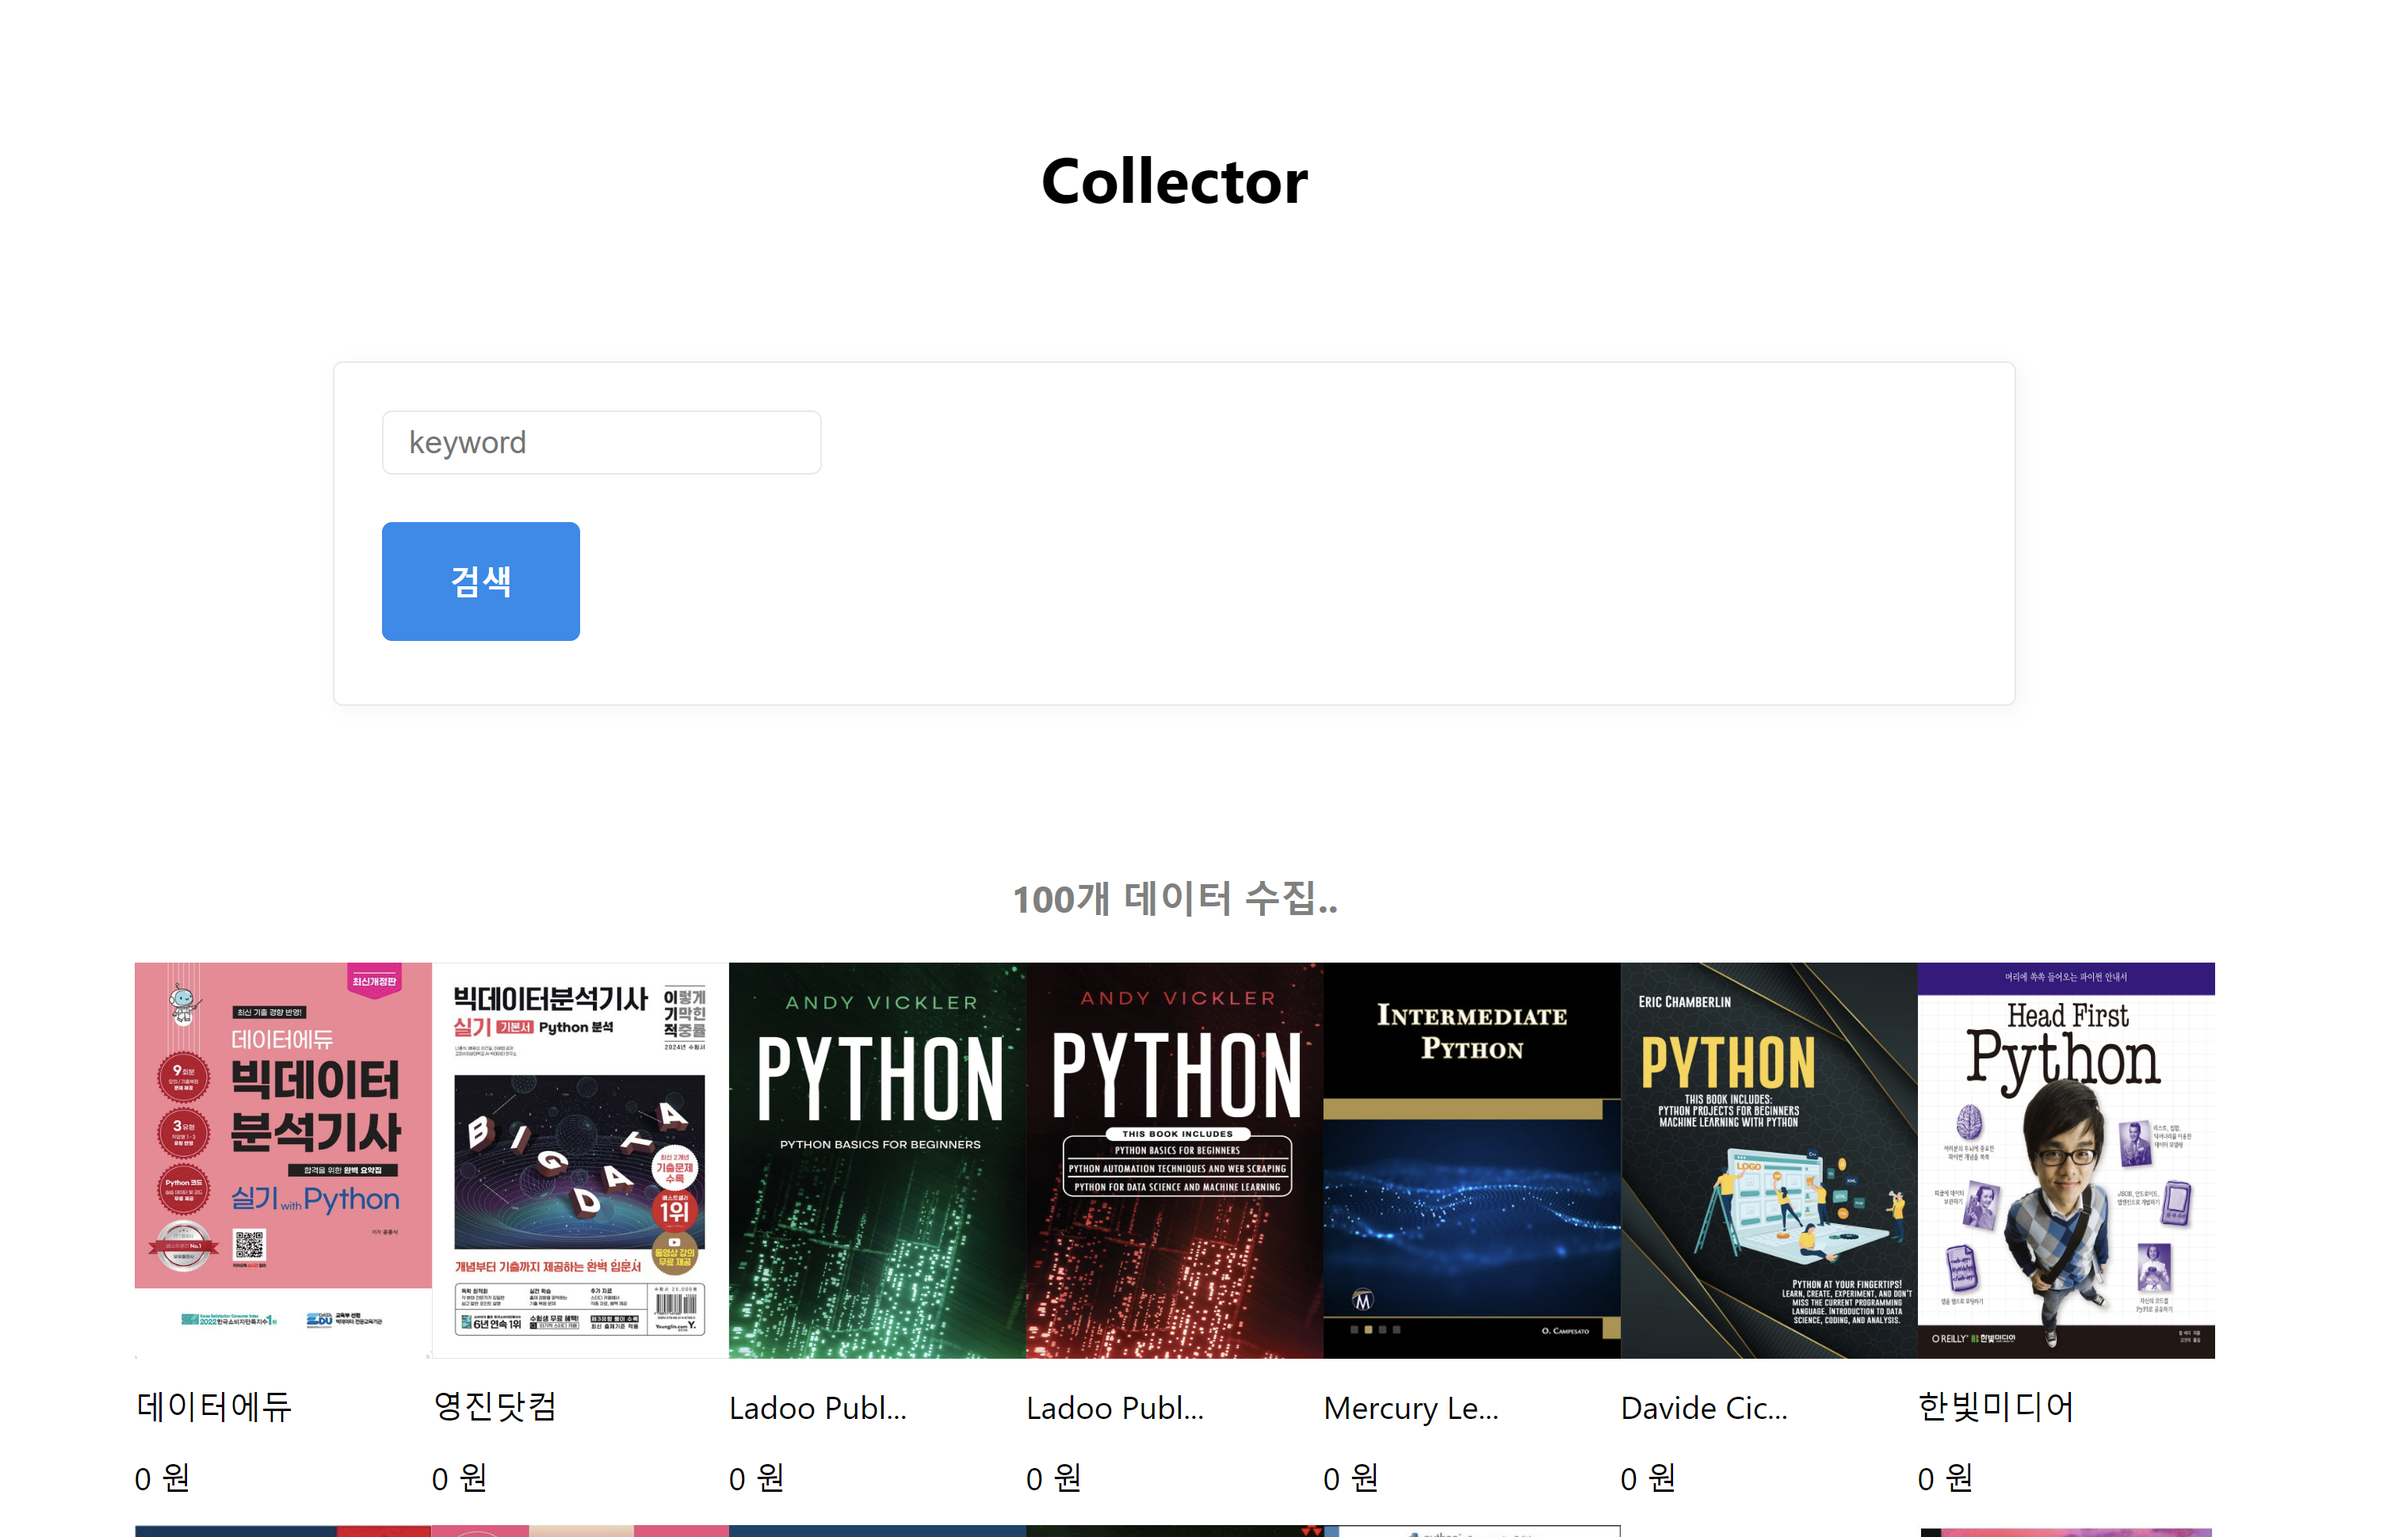
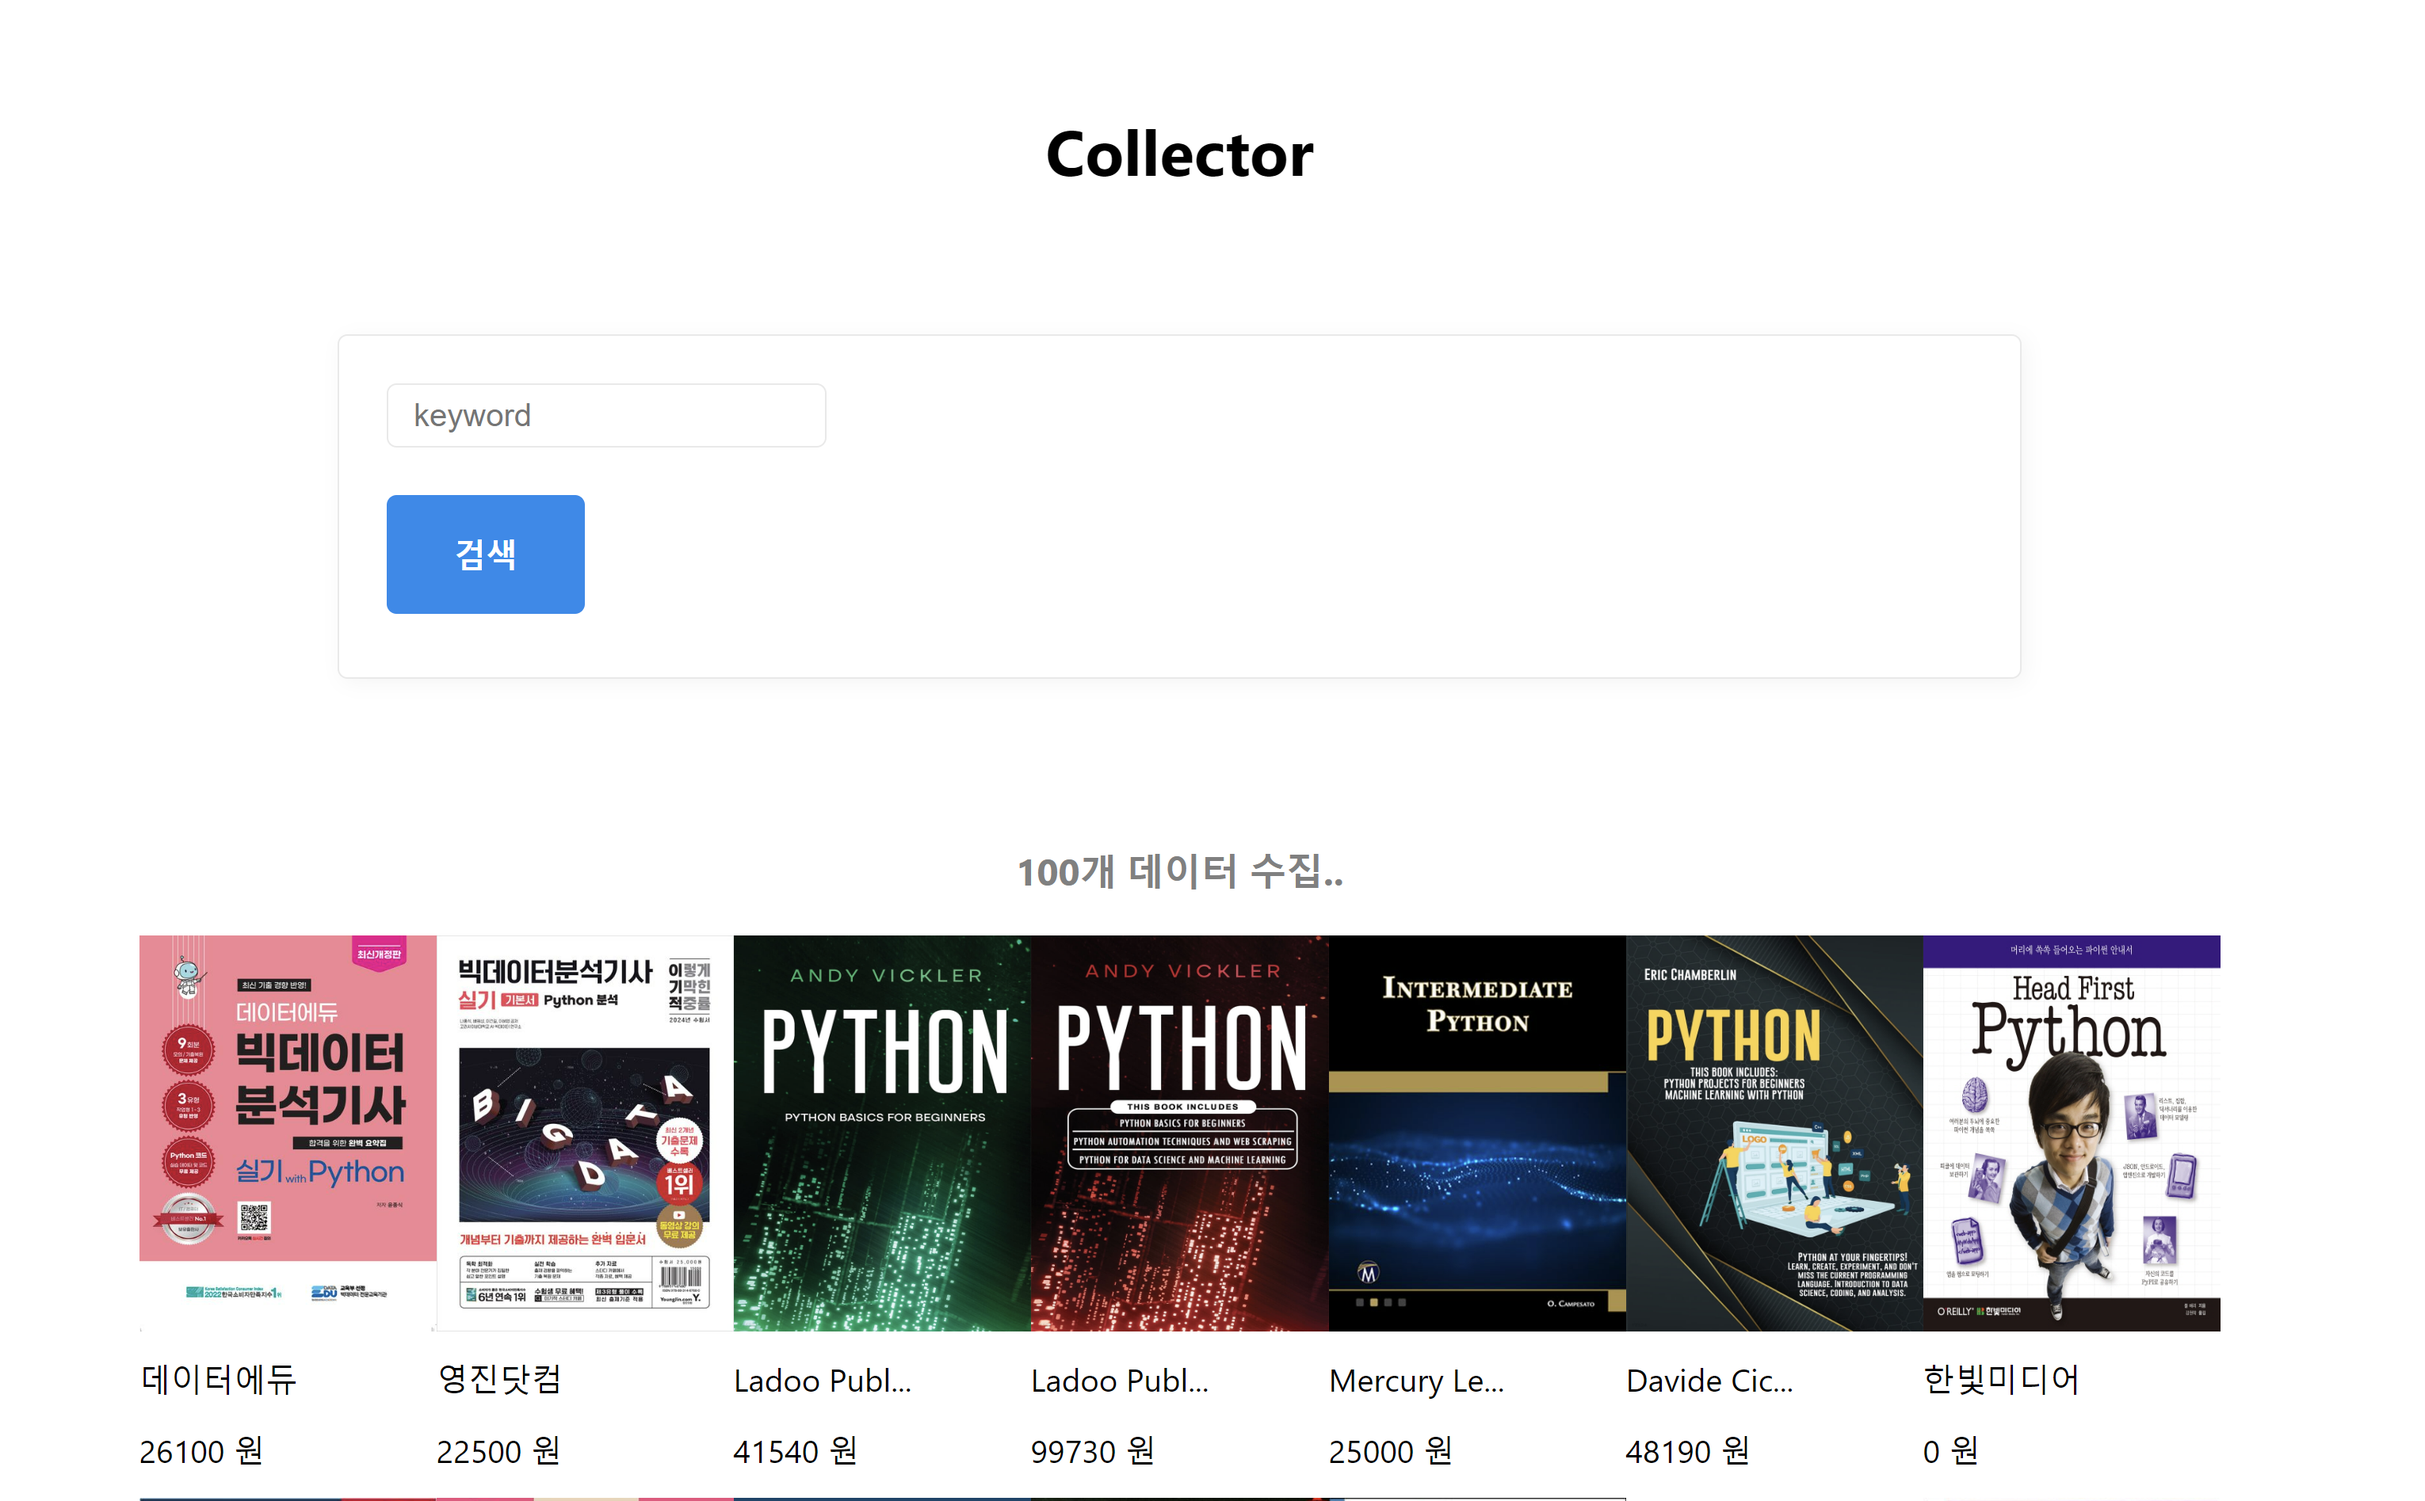
Price Error

diff --git a/app/main.py b/app/main.py
@@ -1,4 +1,4 @@
-from fastapi import FastAPI, Request
+from fastapi import FastAPI, Request, HTTPException
 from fastapi.responses import HTMLResponse
 from fastapi.templating import Jinja2Templates
 from pathlib import Path
@@ -44,14 +44,36 @@ async def search(request: Request, q: str):
     naver_book_scraper = NaverBookScraper()
     books = await naver_book_scraper.search(keyword, 10)
     book_models = []
+
     for book in books:
-        book_model = BookModel(
-            keyword=keyword,
-            publisher=book.get("publisher", "Unknown"),
-            price=book.get("price", 0),
-            image=book.get("image", ""),
-        )
-        book_models.append(book_model)
+        # 디버깅 메시지 추가
+        print(f"Book data: {book}")
+
+        # "discount" 키가 있는지 확인
+        if "discount" not in book:
+            raise HTTPException(
+                status_code=404, detail="Discount not found in book data"
+            )
+
+        try:
+            # discount 값 확인
+            discount_value = book["discount"]
+            print(f"Discount value before conversion: {discount_value}")
+
+            # discount 값을 정수로 변환
+            price_value = int(discount_value)
+            print(f"Price value after conversion: {price_value}")
+
+            book_model = BookModel(
+                keyword=keyword,
+                publisher=book["publisher"],
+                price=price_value,  # discount 값을 price로 사용하고 정수로 변환
+                image=book["image"],
+            )
+            book_models.append(book_model)
+        except Exception as e:
+            print(f"Error creating book model: {e}")
+            raise HTTPException(status_code=500, detail="Error creating book model")
 
     # 3
     await mongodb.engine.save_all(book_models)
